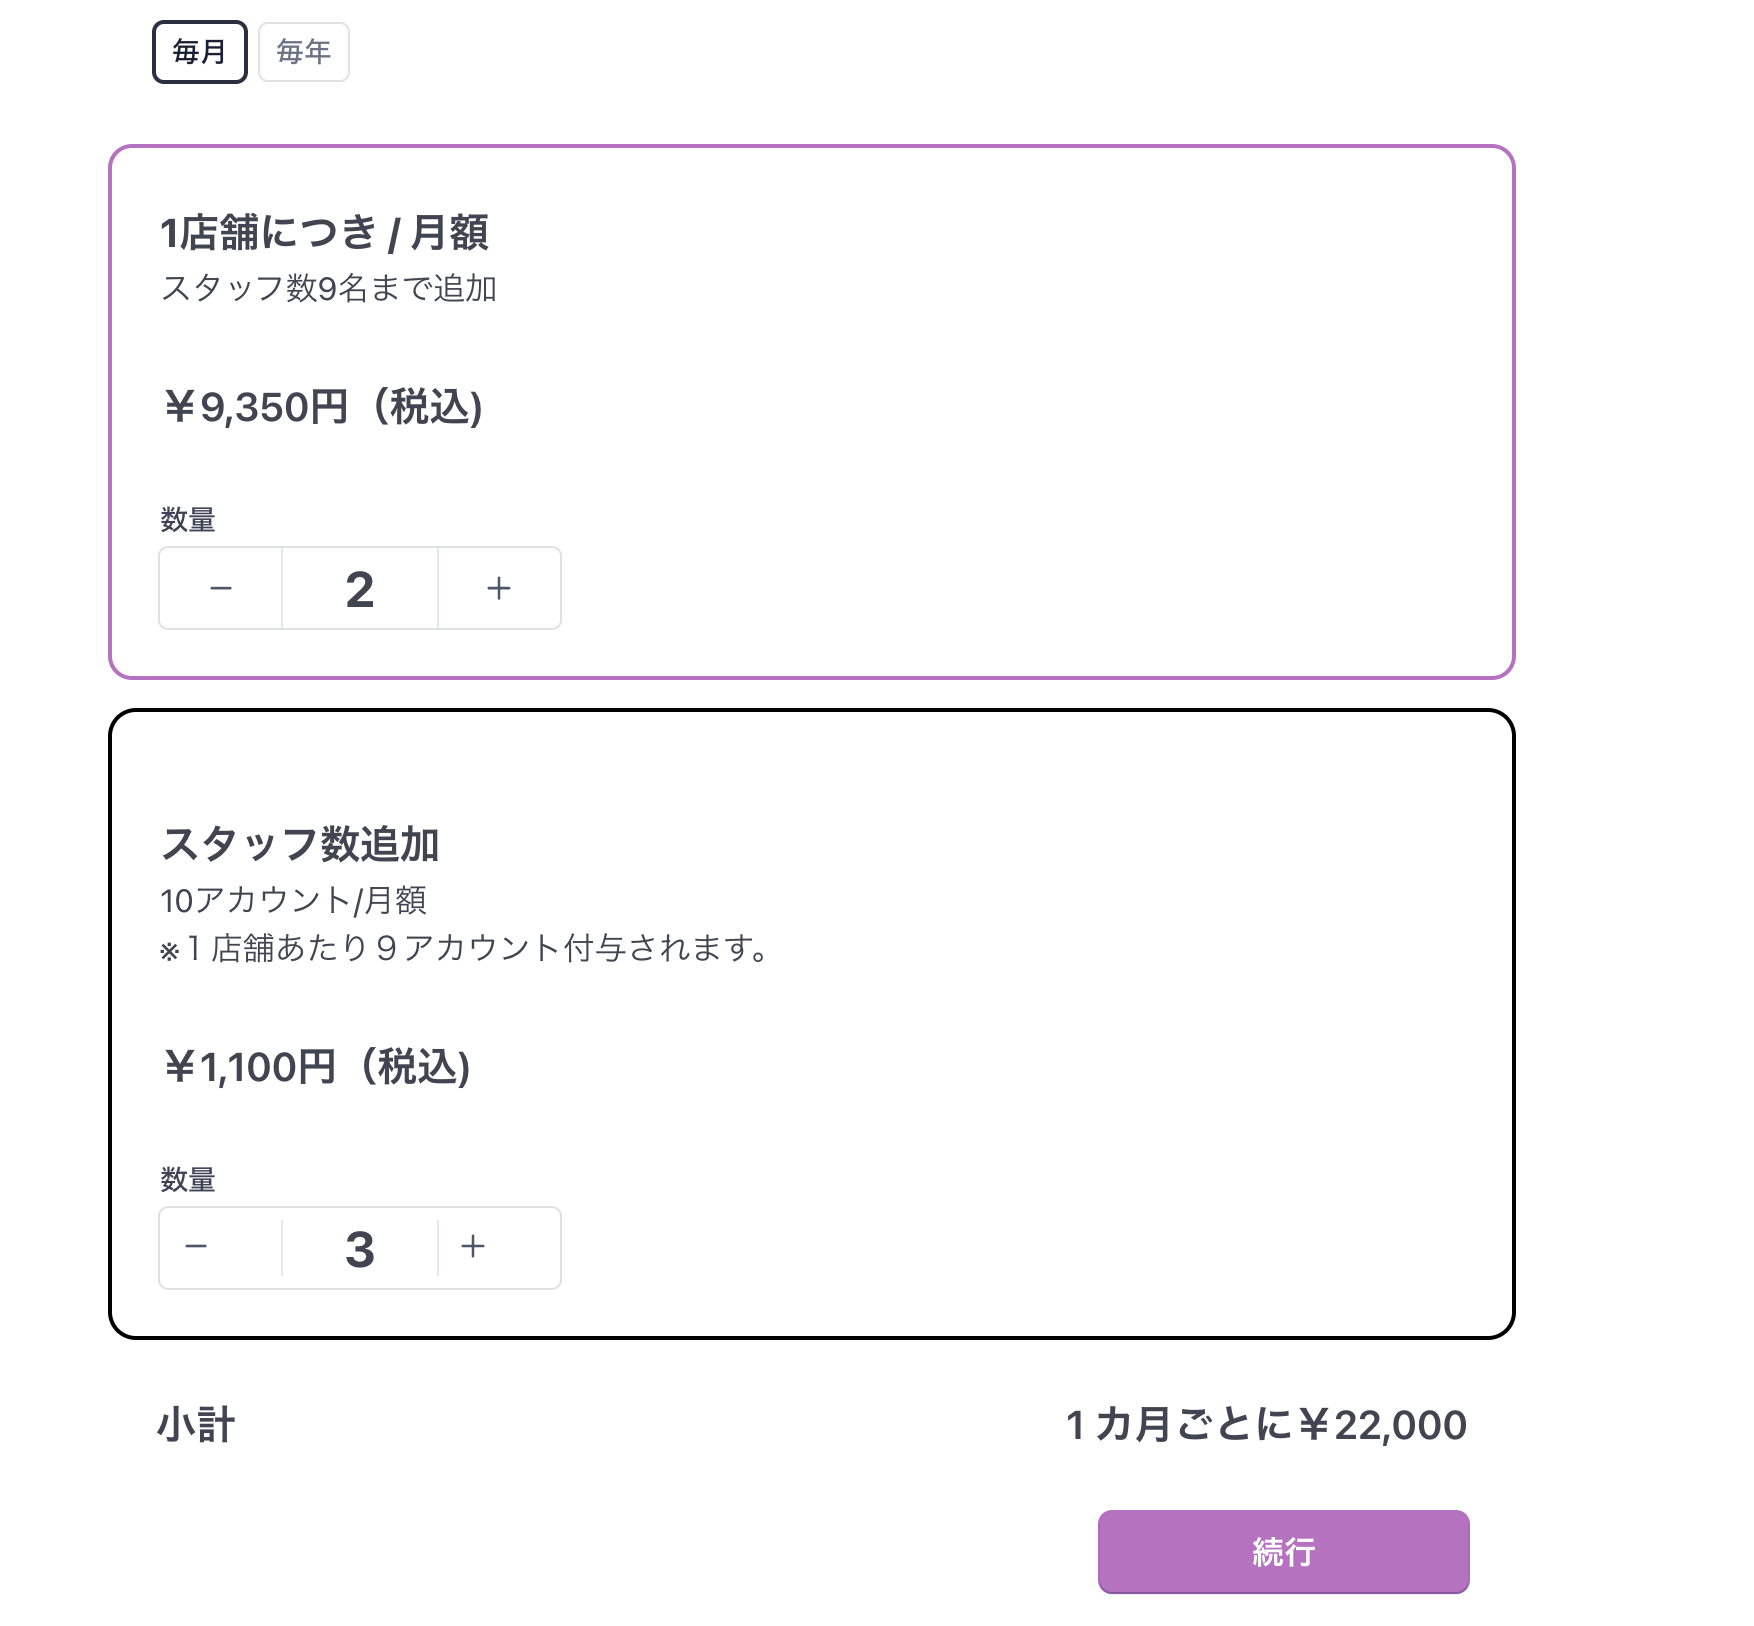
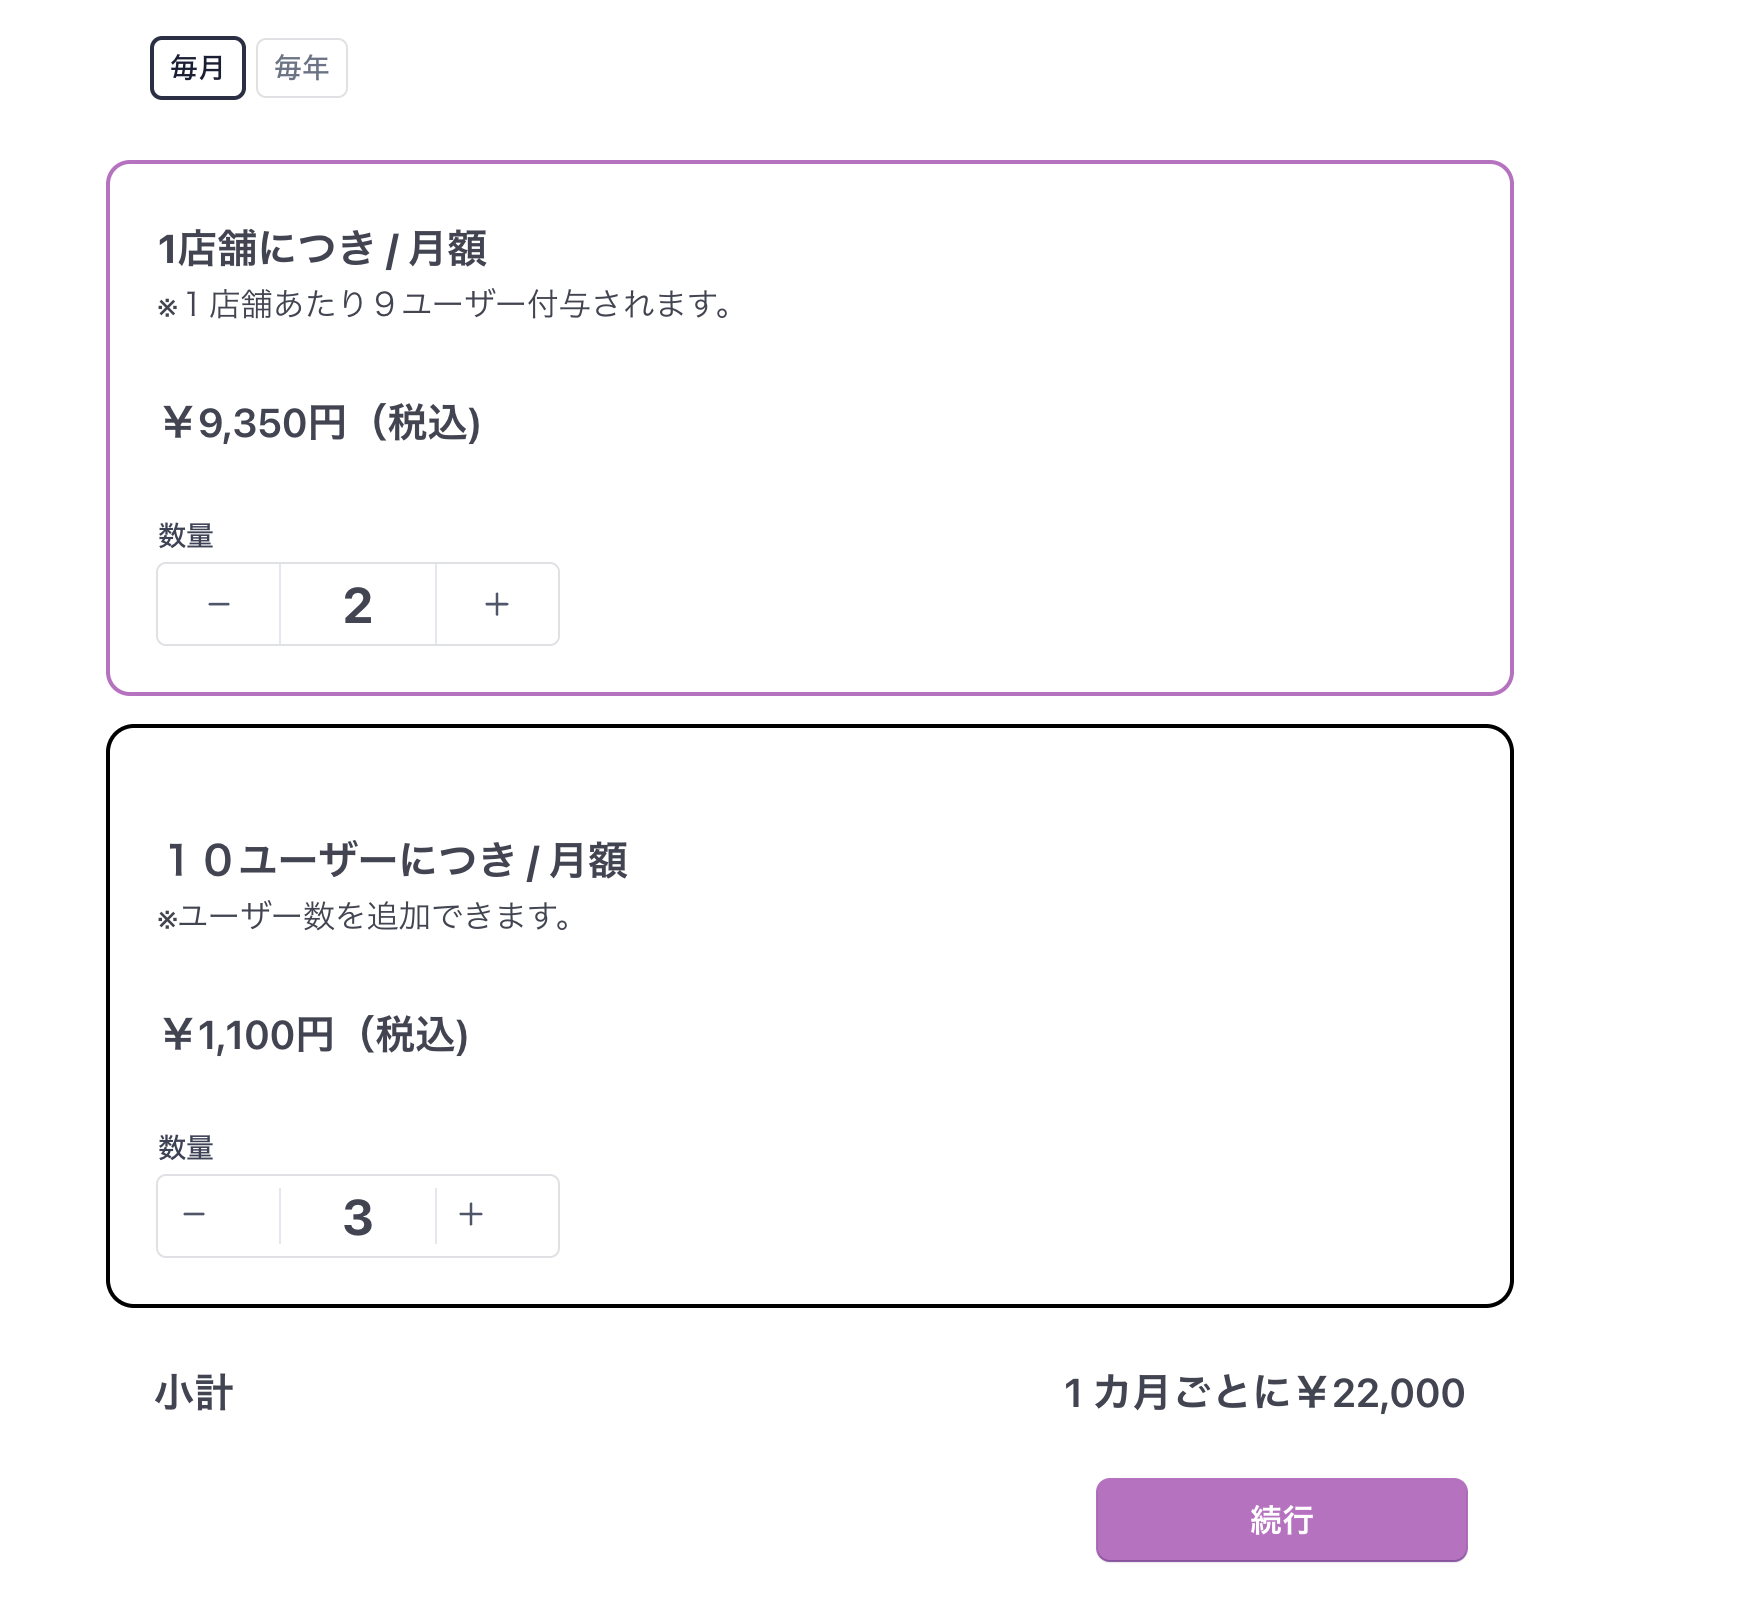
ライセンス規約を追加する

diff --git a/src/sections/dashboard/order/order-list-search.tsx b/src/sections/dashboard/order/order-list-search.tsx
@@ -33,6 +33,7 @@ type TabValue =
   | 'payment'
   | 'contact'
   | 'contract-update'
+  | 'license'
 interface TabOption {
   label: string
   value: TabValue
@@ -40,7 +41,11 @@ interface TabOption {
 
 const tabOptions: TabOption[] = [
   {
-    label: '概要',
+    label: 'のびしろFoodライセンス規約',
+    value: 'license',
+  },
+  {
+    label: '契約内容',
     value: 'all',
   },
   // {
@@ -92,7 +97,73 @@ export const OrderListSearch: FC = (props) => {
         ))}
       </Tabs>
       <Divider />
-      {currentTab === 'all' ? (
+      {currentTab === 'license' ? (
+        <Container maxWidth='md'>
+          <Stack spacing={5} pt={5}>
+            <Card>
+              <CardContent>
+                <Stack spacing={5}>
+                  <Grid>
+                    <Typography variant='h5'>ログインベースのライセンス管理 (LBLM)</Typography>
+                    <div style={{ marginTop: '20px', lineHeight: 1.8 }}>
+                      のびしろFoodはログインベースのライセンス発行を管理できます。<br></br>
+                      ログインベースのライセンス発行とは、ユーザ数に応じて金額が変動し<br></br>
+                      ログインユーザを管理できる仕組みです。
+                      <br></br>
+                      <span style={{ textDecoration: 'underline' }}>
+                        ユーザに割り当てられるロール(権限)は、契約者が自由に設定できることができます。
+                      </span>
+                      <br></br>
+                      <span style={{ textDecoration: 'underline' }}>
+                        どのロールでも１ユーザーにカウントされます。
+                      </span>
+                    </div>
+                  </Grid>
+                  <Grid>
+                    <Typography variant='h5' sx={{ mb: 2 }}>
+                      ユーザー数について
+                    </Typography>
+                    <div style={{ marginTop: '20px', lineHeight: 1.8 }}>
+                      １店舗あたり9ユーザー付与されます。<br></br>
+                      ユーザー数を追加希望の場合、契約内容変更画面から購入することができます。
+                      <div></div>
+                      <br></br>
+                      例) ３店舗利用した場合
+                      <br></br>
+                      38ユーザー
+                      <div></div>
+                      <br></br>
+                      例) ３店舗利用 + ユーザー追加を１つ購入
+                      <br></br>
+                      48ユーザー
+                    </div>
+                  </Grid>
+                  <Grid>
+                    {/*<Typography variant='h6' sx={{ pb: 1 }}>*/}
+                    {/*  アカウントのステータス*/}
+                    {/*</Typography>*/}
+                    {/*<div>*/}
+                    {/*  今回のお支払いは、 <strong>３</strong>店舗分の利用料金となります。*/}
+                    {/*</div>*/}
+                    <a href=''>契約内容変更はこちら</a>
+                  </Grid>
+                  {/*<Stack>*/}
+                  {/*  <Grid>*/}
+                  {/*    <Typography variant='h6' sx={{ pb: 1 }}>*/}
+                  {/*      請求メールの送信先*/}
+                  {/*    </Typography>*/}
+                  {/*    <div>*/}
+                  {/*      test@nobishiro.biz<br></br>*/}
+                  {/*    </div>*/}
+                  {/*    <a href=''>請求連絡先を変更する</a>*/}
+                  {/*  </Grid>*/}
+                  {/*</Stack>*/}
+                </Stack>
+              </CardContent>
+            </Card>
+          </Stack>
+        </Container>
+      ) : currentTab === 'all' ? (
         <Container maxWidth='md'>
           <Stack spacing={5} pt={5}>
             <Card>
@@ -114,16 +185,17 @@ export const OrderListSearch: FC = (props) => {
                         <TableRow hover sx={{ cursor: 'pointer' }}>
                           <TableCell>店舗数</TableCell>
                           <TableCell>２店舗</TableCell>
+                          <TableCell>１店舗あたり10ユーザー付与されます。</TableCell>
                         </TableRow>
                         <TableRow hover sx={{ cursor: 'pointer' }}>
-                          <TableCell>スタッフ追加</TableCell>
+                          <TableCell>ユーザー追加</TableCell>
                           <TableCell>2</TableCell>
-                          <TableCell>１つ追加あたり10アカウント追加できます。</TableCell>
+                          <TableCell>１つあたり10ユーザー付与されます。</TableCell>
                         </TableRow>
                       </TableBody>
                     </Table>
                     <div style={{ marginTop: '20px' }}>
-                      この契約では、<strong>38</strong>アカウントを追加できます。<br></br>
+                      この契約では、<strong>38</strong>ユーザー作成・管理できます。<br></br>
                       2024年4月1日に <strong>￥22,00</strong>（税込み) で更新されます。<br></br>
                       <strong>2024年4月1日 ~ 2024年4月30日</strong>までの利用料金です。
                     </div>

diff --git a/src/pages/payment/index.tsx b/src/pages/payment/index.tsx
@@ -23,7 +23,7 @@ const Page: NextPage = () => {
       <Box sx={{ p: 3, pt: 5 }}>
         <Stack alignItems='flex-start' direction='row' justifyContent='space-between' spacing={4}>
           <div>
-            <Typography variant='h4'>料金・お支払い</Typography>
+            <Typography variant='h4'>契約</Typography>
           </div>
           <div></div>
         </Stack>

diff --git a/src/layouts/dashboard/config.tsx b/src/layouts/dashboard/config.tsx
@@ -28,7 +28,7 @@ export const getSections = (t: TFunction): Section[] => [
   {
     items: [
       {
-        title: '料金・お支払い',
+        title: '契約を管理する',
         icon: (
           <SvgIcon fontSize='small'>
             <CreditCard01 />
